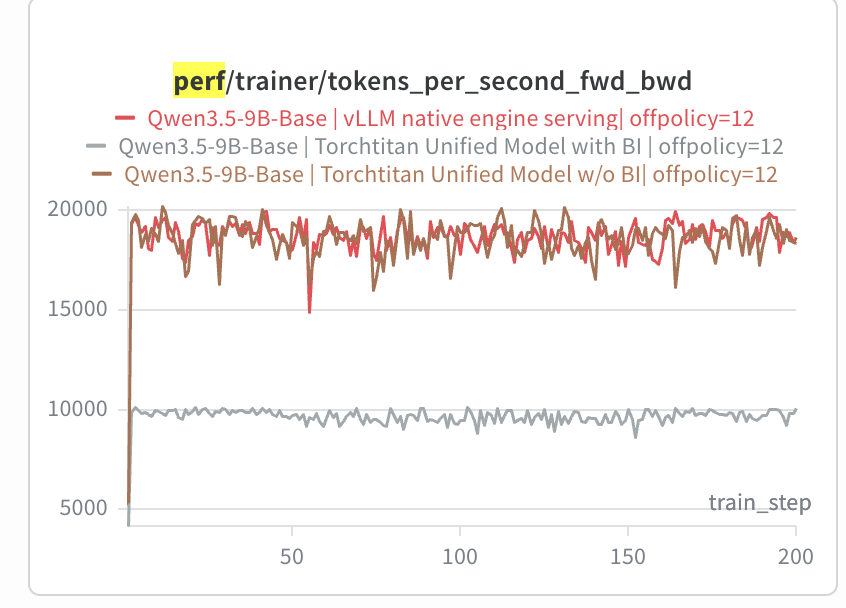
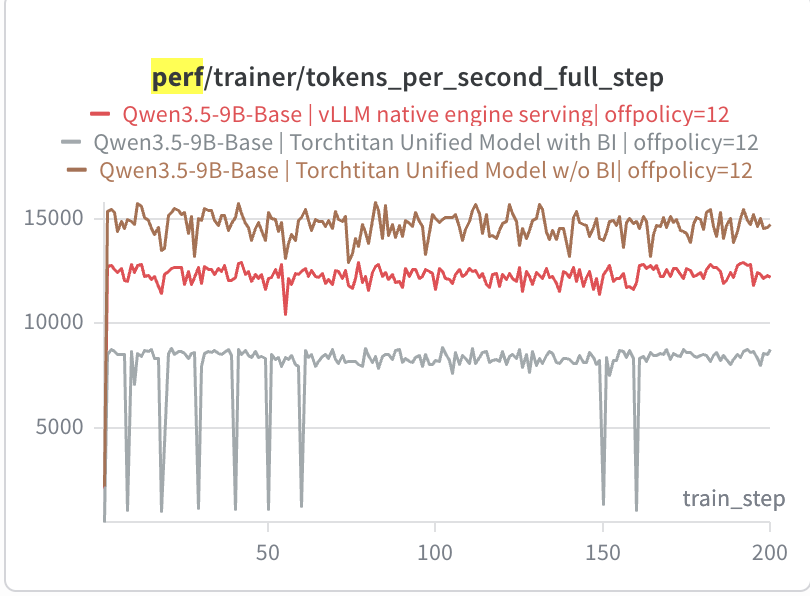
blog: fix three internal contradictions in the mismatch post
1. The teaser claimed BI "buys real reward", which section 5 then
   contradicts. Scope it to the one configuration shown and say up
   front that the rest of the post complicates it.

2. Section 3.2 claimed going all-recurrent "barely moves the wall
   clock", which Finding 3 contradicts. Keep the reasoning (the
   trainer is not the bottleneck, so it is the right side to spend on)
   and drop the claim, pointing at Finding 3 for the measurement.

3. The MATH throughput plots measured tokens_per_second_fwd_bwd while
   Search-R1 and TMax measured tokens_per_second_full_step, so the
   quoted slowdowns were not comparable. Replace the MATH plots with
   full_step so all three workloads use one metric, and requote:
   2-3x on MATH (window-dependent), ~5x on TMax.

The new full_step plots also change one conclusion: vLLM native runs
*below* the unified model without BI, so the unified model is not
merely free, it is slightly faster.

Changed region(s): [[0.0, 0.0, 1.0, 0.9966], [0.0617, 0.0906, 0.9259, 0.302]]

diff --git a/docs/blog/training-inference-mismatch-rl.md b/docs/blog/training-inference-mismatch-rl.md
@@ -44,8 +44,10 @@ Three lines in both plots:
 - ⚪ **grey** — the same unified model, **plus batch-invariant kernels** (BI).
 
 The ordering is the same on both sides: grey has the **lowest** logprob gap and the
-**highest** reward. Closing the numerical mismatch is not just cosmetic — it buys
-real reward on a linear-attention model under async RL.
+**highest** reward. **In this configuration**, closing the numerical mismatch does
+show a reward gain. Whether it holds up across other off-policy windows and other
+workloads — and what it costs — is the rest of the post, and the answer is not a clean
+yes.
 
 The single most telling point is at **step 0**, where the grey curve's
 `bit_wise/logprob_diff/abs_mean` is **exactly 0**. At step 0 nothing is stale yet, so
@@ -256,9 +258,10 @@ decode to the recurrent kernel**. For training, use the **recurrent kernel for t
 forward pass and the chunked kernel for the backward pass** — only the forward
 computation needs to be batch-invariant.
 
-Going all-recurrent on the forward costs less than it sounds: in an RL step the
-trainer is the cheap part anyway, so trading the chunked forward for a recurrent one
-barely moves the wall clock.
+Going all-recurrent on the forward is the sensible direction for the trade, rather
+than a free one: in a normal RL step the trainer is not the bottleneck — generation is
+— so the trainer is the right side to spend on. What it actually costs in trainer
+throughput we measure in §4.2 (Finding 3).
 
 The rest is the easy part: **disable split-K in attention, and patch in Thinking
 Machines' batch-invariant GEMM.**
@@ -498,14 +501,14 @@ unambiguous — but the metric that matters moves within noise. Whatever the sur
 was struggling with at these off-policy windows, it apparently was not the numerical
 term.
 
-**Finding 3 — BI costs about half the trainer throughput. The unified model itself
-costs nothing.**
+**Finding 3 — BI costs 2–3× trainer throughput. The unified model costs nothing — if
+anything it is faster.**
 
 <div class="fig-row" style="display: flex; gap: 0.8rem; align-items: flex-start;" markdown="1">
 
 <div style="flex: 1 1 0; min-width: 0;" markdown="1">
 
-![Trainer tokens per second at off-policy 4: the BI run (orange) sits near 9,000 to 10,000 while vLLM (blue) and the unified model without BI (green) overlap each other near 16,000 to 19,000, both sagging slowly over training](../asset/ti-mismatch-dapo-perf-off4.png)
+![Trainer tokens per second per full step at off-policy 4: the unified model without BI (green) runs highest around 11,000 to 15,000 and sags over training, vLLM (blue) sits below it around 9,000 to 12,500, and the BI run (orange) is far lower and violently spiky, swinging between near zero and 9,000](../asset/ti-mismatch-dapo-perf-off4.png)
 
 *`offpolicy = 4`*
 
@@ -513,7 +516,7 @@ costs nothing.**
 
 <div style="flex: 1 1 0; min-width: 0;" markdown="1">
 
-![Trainer tokens per second at off-policy 12: the BI run (grey) is flat near 9,700 while vLLM native (red) and the unified model without BI (brown) overlap near 19,000 and stay flat](../asset/ti-mismatch-dapo-perf-off12.png)
+![Trainer tokens per second per full step at off-policy 12: the unified model without BI (brown) is highest and flat near 14,500, vLLM native (red) sits below it near 12,200, and the BI run (grey) is flat near 8,400 with a few sharp dips](../asset/ti-mismatch-dapo-perf-off12.png)
 
 *`offpolicy = 12`*
 
@@ -521,29 +524,33 @@ costs nothing.**
 
 </div>
 
-*`perf/trainer/tokens_per_second_fwd_bwd` — the trainer's own forward+backward
-throughput.*
+*`perf/trainer/tokens_per_second_full_step` — the same metric we report for the other
+two workloads below, so the numbers are comparable across all three.*
 
 Three things fall out.
 
-**BI costs roughly 2×.** The BI runs sit at ~9–10k tokens/s against ~16–20k without —
-call it half the throughput. That is the recurrent forward, split-K disabled, and the
-batch-invariant GEMM, all of which trade occupancy for a fixed reduction order.
+**BI costs 2–3×.** At `offpolicy = 12` the BI run holds ~8.4k tokens/s against ~14.5k
+without. At `offpolicy = 4` it is worse and much spikier, averaging roughly ~4k against
+~12k. That is the recurrent forward, split-K disabled, and the batch-invariant GEMM,
+all of which trade occupancy for a fixed reduction order. Note that the penalty is not
+a constant — it depends on how much work is in flight to hide the slower kernels
+behind.
 
-**The unified model is free.** vLLM native and the unified model without BI lie on top
-of each other at both windows. Sharing one model definition between trainer and
-generator — the §3.1 half of the story — costs nothing measurable. The entire bill is
-the aligned *kernels*.
+**The unified model is free — slightly better than free.** vLLM native actually runs
+*below* the unified model without BI (~12.2k against ~14.5k at `offpolicy = 12`). So
+sharing one model definition between trainer and generator — the §3.1 half of the
+story — costs nothing, and on this workload it pays a little. **The entire bill is the
+aligned *kernels*.**
 
-**A wider window raises throughput.** At `offpolicy = 4` every curve sags over
-training (~19k → ~16.5k); at `offpolicy = 12` they are flat near ~19k. More rollouts
-in flight means less time waiting for the tail — which is exactly why anyone wants a
-wide window in the first place.
+**A wider window raises throughput, and BI needs it most.** Every curve is higher and
+flatter at `12` than at `4`. BI gains the most from the wider window (~4k → ~8.4k):
+being slower per step, it has more latency to hide, and a wider window is what gives
+it enough in-flight rollouts to hide it behind.
 
 Put the three findings together and the trade is explicit: **BI buys a provably zero
-mismatch and a logprob gap that will not explode, at about half the trainer throughput
-and no clear accuracy gain.** We are not going to tell you which side of that to pick.
-The numbers are on the table.
+mismatch and a logprob gap that will not explode, at 2–3× the trainer throughput and
+no clear accuracy gain.** We are not going to tell you which side of that to pick. The
+numbers are on the table.
 
 <!-- TODO: MoE — Qwen3.5-30B-A3B. Same three alignment levels and the same
 offpolicy = 4 / 12 / 32 sweep, to check whether expert routing makes the mismatch
@@ -655,7 +662,9 @@ steps, then the BI curve sits a little above from ~55 to ~80, and both finish ar
 something — and it is still small enough that one seed cannot settle it.
 
 **Throughput:** and here is the bill. The BI arm runs at ~1.5–2k tokens/s against
-~7.5–10k without — a heavier penalty than the ~2× on MATH.
+~7.5–10k without — roughly 5×, against the 2–3× on MATH, and measured in the same
+metric. Long episodes are where the recurrent decode hurts most: a 64K context means
+far more tokens walked one at a time.
 
 Which is the trade in its sharpest form: the workload where bitwise parity finally
 looks like it helps is also the one where it costs the most.
@@ -674,8 +683,8 @@ policy and stops exploding at wide off-policy windows. On reward and final accur
 the payoff is real but small — a slight edge on the terminal agent, nothing separable
 from noise on math or search. The best case for it is the async-tolerance argument:
 with the numerical term gone, a wider off-policy window becomes safer to run. But
-**that comes at more than 2× overhead**, and at that price the cost/benefit does not
-close for a production run.
+**that comes at 2–3× trainer throughput on math and search, and ~5× on the terminal
+agent**, and at that price the cost/benefit does not close for a production run.
 
 So we would put it somewhere else in the workflow: **as a debugging tool.** When a
 post-training run misbehaves, turning BI on for 20 on-policy steps tells you something
@@ -693,9 +702,10 @@ run.
    optimizer. Methods built for staleness — [IcePop](https://arxiv.org/abs/2510.24788)
    and relatives — might interact with a zero-mismatch engine quite differently, since
    they are trying to solve the same problem from the algorithm side.
-3. **Making BI cheap.** The 2× is not a law of nature; it is the cost of the specific
-   kernels we wrote. If someone optimizes the recurrent forward and the batch-invariant
-   GEMM hard enough, the trade changes on its own — and then the answer above flips.
+3. **Making BI cheap.** The 2–5× is not a law of nature; it is the cost of the
+   specific kernels we wrote. If someone optimizes the recurrent forward and the
+   batch-invariant GEMM hard enough, the trade changes on its own — and then the answer
+   above flips.
 
 This post covers a narrow slice of a large problem, and we would rather be corrected
 than agreed with. If you have data that points the other way, or a workload where this
